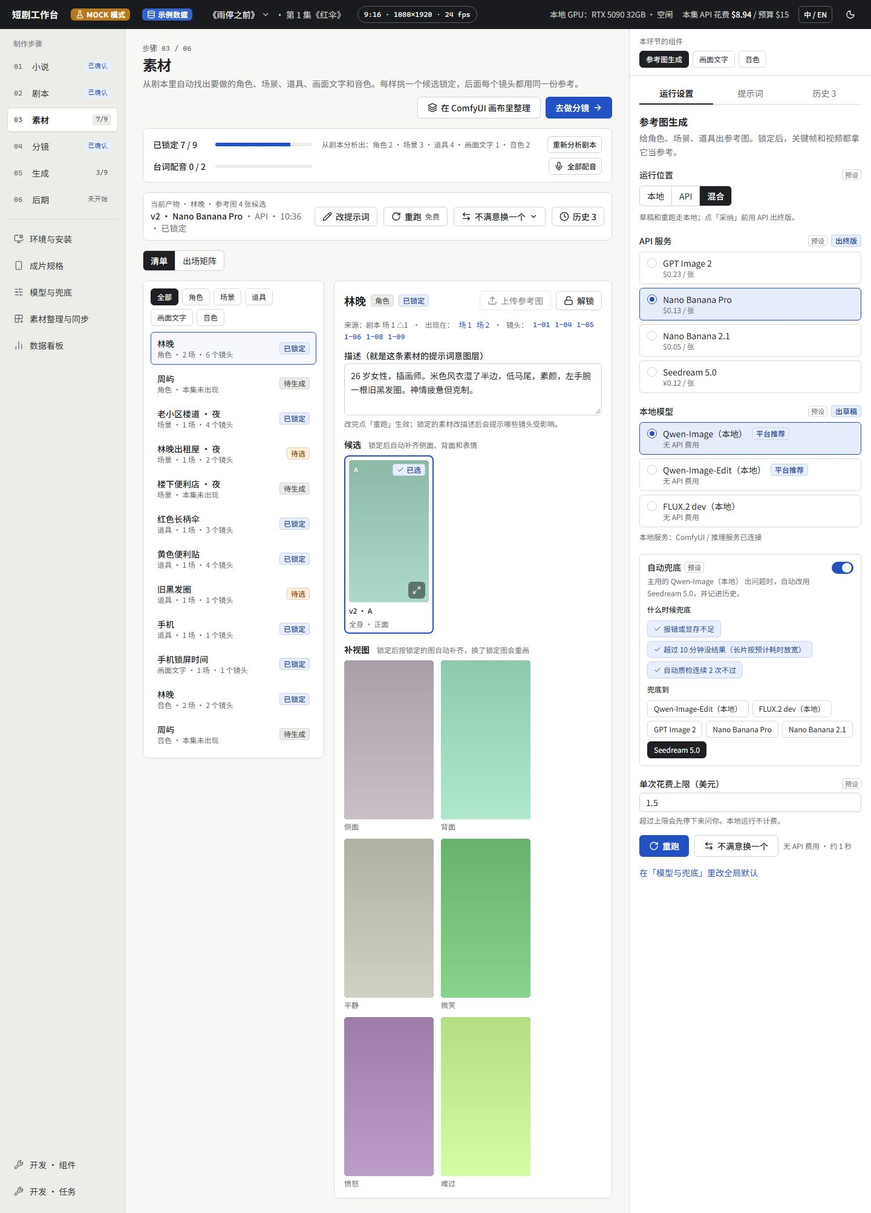
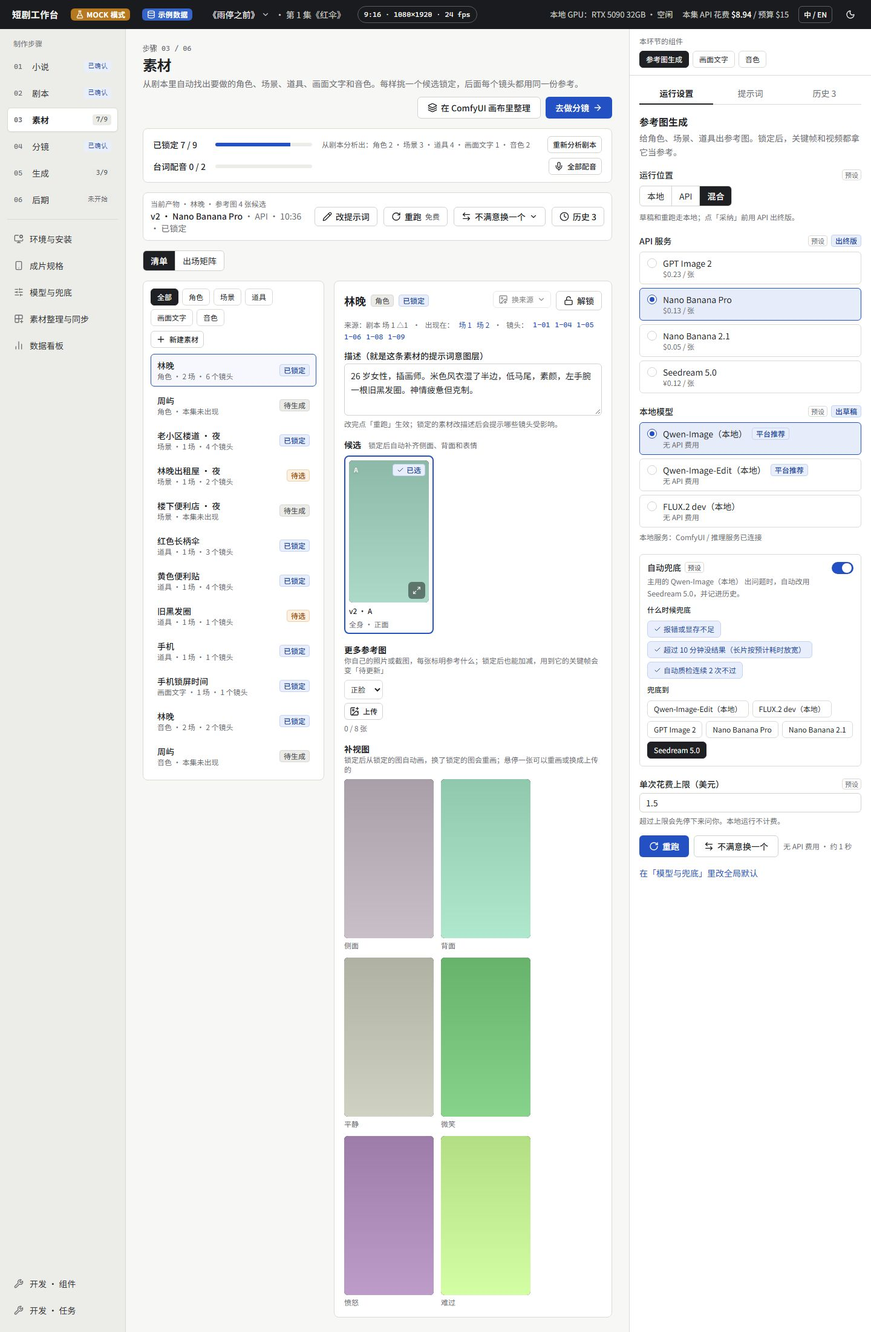
Screenshots of the picture sources and edits, light, dark and 2000 px wide (M5.5 step 16d)
- storyboard, spec and assets taken again; the first frame's menu and redraw dialog, the
  assets page's more pictures with a view hovered, the new asset dialog; 2000 px wide pages.
- Fix: the views' thumbnail button inside the hover layer was inline and collapsed to no
  width (block, full width).

diff --git a/web/src/pages/assets/AssetViews.tsx b/web/src/pages/assets/AssetViews.tsx
@@ -90,7 +90,7 @@ export function AssetViews({ asset, aspect }: { asset: Asset; aspect: Aspect }) 
                       aria-label={tc("lightbox.zoom", { label: name })}
                       title={tc("lightbox.zoom", { label: name })}
                       onClick={() => setZoomed(at)}
-                      className="rounded-md outline-none focus-visible:ring-2 focus-visible:ring-ring"
+                      className="block w-full rounded-md outline-none focus-visible:ring-2 focus-visible:ring-ring"
                     >
                       <MediaThumb
                         aspect={aspect}

diff --git a/docs/studio/reports/ui/README.md b/docs/studio/reports/ui/README.md
@@ -17,11 +17,11 @@ pnpm -C web shots:prototype --runtime <path/to/dc-runtime.js> [--only Main,Spec]
 | 页面 | 原型 | 实现 · 亮色 | 实现 · 暗色 | 有意的差异 |
 | --- | --- | --- | --- | --- |
 | 00 首次启动 `/setup` | [Setup](prototype/Setup.jpg) | [亮色](setup.light.jpg) | [暗色](setup.dark.jpg) | 顶栏用工作台自己的（原型这一页单独一条「首次启动」顶栏）；失败项行内有「重试 / 跳过」，不再自动跳过（日志文案相应改成「失败（可选项，不影响使用）」）；重新检测时已装好的项显示「通过 · 已安装」；「示例机器」切换只在 Mock 后端的示例机器上出现（`simulated`）；日志面板可滚动，保留全部行（原型只显示最后 9 行）；M1 起左侧导航有「环境与安装」（工具区第一个，徽标「缺 N 项」），`/` 在从没扫描过时跳到这一页；会改你的 ComfyUI 的项标出来、默认不勾，安装前弹改动清单确认（[截图](setup-confirm.light.jpg)），页面最下面多了「你的 ComfyUI」：识别结果、节点包和模型文件、快照和回滚（[装完后的整页](setup-done.light.jpg)）；M1 第 8c 步起，安装按钮旁和确认弹窗里写「约 N GB，预计 M 分钟」，下载中的项显示已下 / 总大小、速度、剩余时间（算 sha256 时显示「校验中…」），汇总条写整体剩余时间、进度按用时加权（[下载中](setup-installing.light.jpg)）；原型里都没有这些 |
-| 00b 成片规格 `/s/demo/spec` | [Spec](prototype/Spec.jpg) | [亮色](spec.light.jpg) | [暗色](spec.dark.jpg) | 锁定标记写「第 1 集已有 9 个镜头」（原型「9 张关键帧」，示例库里只有 7 个镜头有自己的关键帧，另外 2 个接尾帧）；改画幅后的三个选项走共用的 ImpactDialog（提示由组件统一给，不是原型那两句）；规格改动先放草稿，「保存规格」才写入，规格没改时提示「没有改动」；交付分辨率用单选卡片（带圆点）；遮挡区和字幕位置的开关不保存（只影响这一页的预览）；M3 第 10 步起兼容表按官方文档：「带字关键帧 · GPT Image 2」是原生支持（原型「需要转换：部分接入渠道只到 1K」），21:9 下「关键帧 · Nano Banana Pro」也是原生支持（原型「不支持，先出 16:9 再外扩」），见 DECISIONS 2026-10-21「第 10 步」；M4 第 5 步起改画幅的影响范围由后端给：关键帧 7 张（9 个镜头）约 $0.94（7 × Nano Banana Pro 终版价）、场景参考图建议重出（可选），视频到 M5 才有、不列（原型「关键帧 9 张 $1.26 + 视频 $2.76」）（[亮色](spec-aspect-impact.light.jpg) / [暗色](spec-aspect-impact.dark.jpg)） |
+| 00b 成片规格 `/s/demo/spec` | [Spec](prototype/Spec.jpg) | [亮色](spec.light.jpg) | [暗色](spec.dark.jpg) | 锁定标记写「第 1 集已有 9 个镜头」（原型「9 张关键帧」，示例库里只有 7 个镜头有自己的关键帧，另外 2 个接尾帧）；改画幅后的三个选项走共用的 ImpactDialog（提示由组件统一给，不是原型那两句）；规格改动先放草稿，「保存规格」才写入，规格没改时提示「没有改动」；交付分辨率用单选卡片（带圆点）；遮挡区和字幕位置的开关不保存（只影响这一页的预览）；M3 第 10 步起兼容表按官方文档：「带字关键帧 · GPT Image 2」是原生支持（原型「需要转换：部分接入渠道只到 1K」），21:9 下「关键帧 · Nano Banana Pro」也是原生支持（原型「不支持，先出 16:9 再外扩」），见 DECISIONS 2026-10-21「第 10 步」；M4 第 5 步起改画幅的影响范围由后端给：关键帧 7 张（9 个镜头）约 $0.94（7 × Nano Banana Pro 终版价）、场景参考图建议重出（可选），视频到 M5 才有、不列（原型「关键帧 9 张 $1.26 + 视频 $2.76」）（[亮色](spec-aspect-impact.light.jpg) / [暗色](spec-aspect-impact.dark.jpg)）；M5.5 第 16b 步起「声音、字幕和导出」后面多一节「风格板」（最多 4 张，加删一张马上生效，不随「保存规格」走；放在这一页是 Kelvin 2026-11-10 定的），宽屏 2000 px [截图](spec-wide.light.jpg) |
 | 01 小说 `/s/demo/e/1/novel` | [Main](prototype/Main.jpg) | [亮色](novel.light.jpg) | [暗色](novel.dark.jpg) | M2 第 5 步起原文来自后端：「导入 .txt / .docx」打开导入弹窗（选文件 → 识别出的编码和章节 → 勾改编权 → 导入；已有原文时提示会替换，[截图](novel-import.light.jpg)），没有小说时是空状态（[截图](novel-empty.light.jpg)）；第 6 步起设定也来自后端：点设定卡在原文里标出它出现的段落（在别的章先切章，[截图](novel-bible-marked.light.jpg)），每条可以编辑、冻结（[截图](novel-bible-edit.light.jpg)），「可能是同一个」可以合并或标为不是同一个（[截图](novel-bible.light.jpg)），没采纳的版本标「未采纳」；第 7 步起补全建议也来自后端（按要求重写超过单次上限时先在卡片里确认花费），第 7b 步起「原文」视图里每段可以改字、在后面插入一段、删除，章节可以改标题，保存出新的小说版本（[截图](novel-edit.light.jpg)，其他两个视图里不能改）；示例设定按三章小说补了几条（店员、公交站台、旧小票、黑色发圈……）；原文上方多了章节选择和「全书 N 章 · N 字」，段号全书连续；原型里都没有这些；闸门按钮放在页头右侧，确认后旁边显示「已确认 · 重新打开」；模型名不带「（本地）」后缀（运行位置有单独的标记）；API 单价统一写「每百万 token」，原型里的「闲时半价」等备注没放（要等 providers.yaml 的 note 进接口）；M2 第 9 步起点段号打开「在剧本里」：这一段写进了第几集哪一场的哪几行，点一行跳到剧本页并选中它（[截图](novel-trace.light.jpg)），剧本页和镜头链过来时带 `?para=` 直接定位到那一段；原型里没有；M2 第 10 步起示例里小说和第 1 集剧本是「已确认」：改原文、改设定、合并设定、采纳 / 忽略补全、重新导入都先弹影响范围（[截图](novel-impact.light.jpg)），主按钮「确认并同步」：受影响的产物依次重跑、新版本自动采纳，左侧步骤和运行条显示「同步中」（[截图](novel-syncing.light.jpg)），完了提示「已同步：N 个产物更新」，闸门重新打开（[截图](novel-synced.light.jpg)）；已确认时「全部采纳」和按要求重写要先「重新打开」；原型里没有 |
 | 02 剧本 `/s/demo/e/1/script` | [Script](prototype/Script.jpg) | [亮色](script.light.jpg) | [暗色](script.dark.jpg) | 分集卡是链接，点了切到那一集的路由（顶栏集名跟着变），不是页内切换；影响范围在保存前预览，弹窗打开时还没写进剧本，选「撤销」什么都不改；左侧原文按当前已采纳的补写拼出（示例里只采纳了 1 条，原型里是 4 条全采纳后的文字）；默认选中第一段动作而不是第 3 段；M2 第 8 步起分集来自后端的分集规划（第 3 集也有了钩子和卡点，原型是「卡点：待定」），「分集」区多了「卡片 / 节拍看板」切换：看板一列一集、节拍卡能拖到别的集或换位置（拖动时一条蓝线标出落点，[截图](script-board-drag.light.jpg)），点节拍改文字、情绪和所在的集（[截图](script-board-edit.light.jpg)），铅笔改集名、钩子、卡点和预计时长，上面一条全剧情绪曲线（图 / 表切换，悬停读出节拍，[亮色](script-board.light.jpg) / [暗色](script-board.dark.jpg)）；切到看板时右侧 Inspector 和运行条换成分集规划；原型里都没有这些；M2 第 9 步起剧本来自后端的剧本化：场号由后端全剧累加、显示在场标题前，用到已采纳补写的行标「原文第 N 段 · 补写」；选中一行后多一行「对应镜头 1-06」（点了到分镜页选中那个镜头），「来自原文第 N 段」点了到小说页定位那一段（[截图](script-trace.light.jpg)）；剧本没确认时改一段直接保存（不弹影响范围）；重写超单次上限或本集预算时先在那一段下面问「仍然重写」；当前版本没采纳时提示「在历史里采纳后下游才会用」；原型里都没有；M2 第 10 步起影响范围的按钮是「确认并同步 · 预计 $x」（主按钮）/「只改这里，下游标待更新」/「撤销」（原型是「只标记待更新 / 自动重跑受影响的部分 / 撤销修改」，按 Kelvin 2026-10-19 的决定改），第一行由后端给（「已确认的第 1 集剧本会改成新内容」），镜头、关键帧这些下游行仍是示例数据（[截图](script-impact.light.jpg)）；拖节拍、改节拍碰到已确认的剧本时先弹影响范围；M3 第 7 步起场标题下面写「台词 x 秒 · 已配音 n / m」（只算台词，动作行的时长 M4 由镜头定），配过音的台词行右边有播放按钮和真实时长，表格的「时长」列也是（[剧本格式](script-dub.light.jpg) / [暗色](script-dub.dark.jpg)，[表格](script-dub-table.light.jpg) / [暗色](script-dub-table.dark.jpg)）；原型里没有；M3 第 8 步起改配过音的台词，影响范围多一行「台词配音 · 1 句按新台词重配 · 约 $0.0005」（[截图](script-dub-impact.light.jpg) / [暗色](script-dub-impact.dark.jpg)） |
-| 03 素材 `/s/demo/e/1/assets` | [Assets](prototype/Assets.jpg) | [亮色](assets.light.jpg) | [暗色](assets.dark.jpg) | 解锁先弹出影响范围（原型只有提示条）；画面文字的候选也是真图（原型是按字体风格画的色块），OCR 结果由后端给：改了字或做法，屏幕上这一版仍按出图时的设置标注，并提示重跑；后期贴字的候选是空白底图，上面按字体风格叠字预览，标「OCR 确认底图没有字」（[截图](assets-text-composite.light.jpg) / [暗色](assets-text-composite.dark.jpg)；模型出字：[截图](assets-text.light.jpg) / [暗色](assets-text.dark.jpg)）；OCR 不一致只在候选上标出来，锁定不再弹确认框（M5.5，Kelvin 2026-11-10；旧截图 `assets-ocr-confirm` 作废）；M5.5 第 8b 步起道具详情多「真实尺寸 / 材质 / 新旧」三栏、有字的道具多「道具上的字」和「用什么写」（不显示做法），最下面「比例参考」（和一个锁定角色同框，示例数据里还没有这张图，只显示说明）；音色是真音频：三个试听可播放、选中，选一个「用 MiniMax 出终版」（本地来源是「用本地出终版（免费）」），试听不能直接锁定；终版显示样音和五个情绪变体，「用剧本里的台词试读」播放选中的那段（原型只有试听，[终版截图](assets-voice-final.light.jpg) / [暗色](assets-voice-final.dark.jpg)，[试听截图](assets-voice-drafts.light.jpg) / [暗色](assets-voice-drafts.dark.jpg)）；「声音克隆」灰掉，写「之后支持」；「已锁定 7 / 13」和导航的 7/13 都按实际锁定数算；M3 第 3、4 步起素材来自后端：候选是真图（Mock 下是柔和的渐变图），林晚的终版只有 1 张（原型 4 张 $0.56，按 Kelvin 2026-10-20 定的第 5 项改成 1 张 $0.14），锁定后历史里多一版「锁定的候选」；「出现在」改成场（链到剧本那一行），示例剧集后面再跟镜头；原型里没有、照现有样式加的：本地草稿的候选标题右边「用 API 出终版 · 约 $0.14」、详情标题行的「上传参考图」（[截图](assets-draft.light.jpg) / [暗色](assets-draft.dark.jpg)），角色锁定后最下面的「补视图」（侧面、背面，M3 第 13 步起表情一张一种：平静、微笑、愤怒、难过，共 6 张，[截图](assets-views.light.jpg) / [暗色](assets-views.dark.jpg)），「清单 / 出场矩阵」切换：一行一场、一列一样素材，数字是行数，点了跳剧本（[截图](assets-matrix.light.jpg) / [暗色](assets-matrix.dark.jpg)）；M3 第 7 步起进度卡多一行「台词配音 n / m · 全部配音」：先弹估价确认（句数、约多少钱、哪些音色没锁定先跳过，[截图](assets-dub-confirm.light.jpg) / [暗色](assets-dub-confirm.dark.jpg)），音色详情最下面「第 1 集的台词配音」：每句的播放、时长、情绪（按语气或手动）和「配音 / 重配」（[截图](assets-dub-voice.light.jpg) / [暗色](assets-dub-voice.dark.jpg)）；原型里没有配音；M3 第 8 步起「已锁定 n / m」和导航的「素材」按本集用到的素材算（示例 7 / 10，原型 7 / 13 算的是整张清单，Kelvin 定按本集），没锁完时点「去做分镜」提示还差哪几条（[截图](assets-gate-refused.light.jpg) / [暗色](assets-gate-refused.dark.jpg)），改已锁定素材的描述、画面文字设置或音色来源先弹影响范围：按新设置重新出候选、锁定新的之后补视图 / 配音跟着变、出现在哪几场（[截图](assets-edit-locked.light.jpg) / [暗色](assets-edit-locked.dark.jpg)）；Kelvin 2026-10-21 看过后：计数定为本集用到的（7 / 10）；候选卡和补视图卡改成定宽小卡（9:16 宽 148 px，放不下换行），图上「放大」打开大图（按屏幕自适应，← → 切换），出终版、补视图、画面文字两张截图跟着重截 |
-| 04 分镜 `/s/demo/e/1/storyboard` | [Storyboard](prototype/Storyboard.jpg) | [亮色](storyboard.light.jpg) | [暗色](storyboard.dark.jpg) | 站位图真的能拖（也能用方向键），位置存进镜头的 `blocking`；机位也是可拖的一项，不再按景别自动摆；参考素材的「未锁定」按素材页的实际锁定状态显示；「添加参考」从已锁定素材里选；确认镜头时顺带采纳当前关键帧；1-09 的尾帧接 1-08（原型如此，ROADMAP 里只举了 1-08 接 1-06）；M2 第 9 步起镜头设定最上面多一栏「剧本」：这个镜头拍的剧本行（点了到剧本页选中那一行）和它们来自原文第几段（点了到小说页），剧本页链过来时带 `?shot=` 直接选中那个镜头（[截图](storyboard-lines.light.jpg)）；原型里没有；M4 第 5 步起镜头和关键帧来自后端：整集 34.5 秒（1-04 没配音，按剧本估计 4 秒加前后留白，原型 34 秒）；首帧候选是真图（Mock 出的是纯色图），固定尺寸的小卡片、能放大看，卡片下面写「本地草稿」/「API 终版」（原型是构图说明），本地草稿下面有「用 API 出终版 · 约 $0.13」；确认镜头锁定选中的那张（不再是「顺带采纳」）；状态多了「待更新」；改已确认的镜头先弹影响范围，确认前不写入（[亮色](storyboard-shot-edit.light.jpg) / [暗色](storyboard-shot-edit.dark.jpg)）；原型里没有；M4 第 6 步起镜头列表上面多一行「镜头 · 9 个 · 34.5 秒」和「分镜板 / 表格」切换，表格视图每行能直接改类型、景别、运动、时长，带拆分 / 合并按钮，下面仍是选中镜头的设定（[亮色](storyboard-table.light.jpg) / [暗色](storyboard-table.dark.jpg)）；镜头设定里多了「拆分」（拍多行时选从哪行之后切）、「和下一个合并」，时长下面写来源（按台词音频 / 手动 / 按分镜规划）、「恢复按音频」和超过 15 秒的拆镜提示；原型里没有；M4 第 7 步起预演按真实时长放（[亮色](storyboard-animatic.light.jpg) / [暗色](storyboard-animatic.dark.jpg)：1-04 播放中、开着安全区）：画面是选中的关键帧（接尾帧的镜头用接的那个镜头的，标「接 1-06 尾帧」），配过音的句子按偏移出声，字幕按成片规格的位置，没配音的写「n 句还没配音 · 去配音」；时间显示、点时间条跳转、空格键、「安全区」开关（也叠在关键帧候选上）原型里没有；那句说明从「本地临时配音」改成「台词配音」（不做预演配音）；镜头卡片显示选中的关键帧 |
+| 03 素材 `/s/demo/e/1/assets` | [Assets](prototype/Assets.jpg) | [亮色](assets.light.jpg) | [暗色](assets.dark.jpg) | 解锁先弹出影响范围（原型只有提示条）；画面文字的候选也是真图（原型是按字体风格画的色块），OCR 结果由后端给：改了字或做法，屏幕上这一版仍按出图时的设置标注，并提示重跑；后期贴字的候选是空白底图，上面按字体风格叠字预览，标「OCR 确认底图没有字」（[截图](assets-text-composite.light.jpg) / [暗色](assets-text-composite.dark.jpg)；模型出字：[截图](assets-text.light.jpg) / [暗色](assets-text.dark.jpg)）；OCR 不一致只在候选上标出来，锁定不再弹确认框（M5.5，Kelvin 2026-11-10；旧截图 `assets-ocr-confirm` 作废）；M5.5 第 8b 步起道具详情多「真实尺寸 / 材质 / 新旧」三栏、有字的道具多「道具上的字」和「用什么写」（不显示做法），最下面「比例参考」（和一个锁定角色同框，示例数据里还没有这张图，只显示说明）；音色是真音频：三个试听可播放、选中，选一个「用 MiniMax 出终版」（本地来源是「用本地出终版（免费）」），试听不能直接锁定；终版显示样音和五个情绪变体，「用剧本里的台词试读」播放选中的那段（原型只有试听，[终版截图](assets-voice-final.light.jpg) / [暗色](assets-voice-final.dark.jpg)，[试听截图](assets-voice-drafts.light.jpg) / [暗色](assets-voice-drafts.dark.jpg)）；「声音克隆」灰掉，写「之后支持」；「已锁定 7 / 13」和导航的 7/13 都按实际锁定数算；M3 第 3、4 步起素材来自后端：候选是真图（Mock 下是柔和的渐变图），林晚的终版只有 1 张（原型 4 张 $0.56，按 Kelvin 2026-10-20 定的第 5 项改成 1 张 $0.14），锁定后历史里多一版「锁定的候选」；「出现在」改成场（链到剧本那一行），示例剧集后面再跟镜头；原型里没有、照现有样式加的：本地草稿的候选标题右边「用 API 出终版 · 约 $0.14」、详情标题行的「上传参考图」（[截图](assets-draft.light.jpg) / [暗色](assets-draft.dark.jpg)），角色锁定后最下面的「补视图」（侧面、背面，M3 第 13 步起表情一张一种：平静、微笑、愤怒、难过，共 6 张，[截图](assets-views.light.jpg) / [暗色](assets-views.dark.jpg)），「清单 / 出场矩阵」切换：一行一场、一列一样素材，数字是行数，点了跳剧本（[截图](assets-matrix.light.jpg) / [暗色](assets-matrix.dark.jpg)）；M3 第 7 步起进度卡多一行「台词配音 n / m · 全部配音」：先弹估价确认（句数、约多少钱、哪些音色没锁定先跳过，[截图](assets-dub-confirm.light.jpg) / [暗色](assets-dub-confirm.dark.jpg)），音色详情最下面「第 1 集的台词配音」：每句的播放、时长、情绪（按语气或手动）和「配音 / 重配」（[截图](assets-dub-voice.light.jpg) / [暗色](assets-dub-voice.dark.jpg)）；原型里没有配音；M3 第 8 步起「已锁定 n / m」和导航的「素材」按本集用到的素材算（示例 7 / 10，原型 7 / 13 算的是整张清单，Kelvin 定按本集），没锁完时点「去做分镜」提示还差哪几条（[截图](assets-gate-refused.light.jpg) / [暗色](assets-gate-refused.dark.jpg)），改已锁定素材的描述、画面文字设置或音色来源先弹影响范围：按新设置重新出候选、锁定新的之后补视图 / 配音跟着变、出现在哪几场（[截图](assets-edit-locked.light.jpg) / [暗色](assets-edit-locked.dark.jpg)）；Kelvin 2026-10-21 看过后：计数定为本集用到的（7 / 10）；候选卡和补视图卡改成定宽小卡（9:16 宽 148 px，放不下换行），图上「放大」打开大图（按屏幕自适应，← → 切换），出终版、补视图、画面文字两张截图跟着重截；M5.5 第 16c 步起（草图 A3、A4）：详情顶上的「上传参考图」换成「换来源 ▾」（上传 / 以这张为底重画 / 局部修复 / 放大到长边 2048，对选中的候选；锁定时灰掉），角色、场景、道具多一节「更多参考图」（先选用途再上传，最多 8 张，锁定后也能加删；草图里图下的用途下拉没做：后端不能改用途），补视图每张悬停浮出「重画这张 / 上传」（[截图](assets-more.light.jpg) / [暗色](assets-more.dark.jpg)，悬停在背面）；列表筛选旁「新建素材」→ 对话框（类别没有音色、道具多尺寸三栏、图从哪来；[截图](assets-new.light.jpg) / [暗色](assets-new.dark.jpg)），手动建的标「手动」；宽屏 2000 px [截图](assets-wide.light.jpg) |
+| 04 分镜 `/s/demo/e/1/storyboard` | [Storyboard](prototype/Storyboard.jpg) | [亮色](storyboard.light.jpg) | [暗色](storyboard.dark.jpg) | 站位图真的能拖（也能用方向键），位置存进镜头的 `blocking`；机位也是可拖的一项，不再按景别自动摆；参考素材的「未锁定」按素材页的实际锁定状态显示；「添加参考」从已锁定素材里选；确认镜头时顺带采纳当前关键帧；1-09 的尾帧接 1-08（原型如此，ROADMAP 里只举了 1-08 接 1-06）；M2 第 9 步起镜头设定最上面多一栏「剧本」：这个镜头拍的剧本行（点了到剧本页选中那一行）和它们来自原文第几段（点了到小说页），剧本页链过来时带 `?shot=` 直接选中那个镜头（[截图](storyboard-lines.light.jpg)）；原型里没有；M4 第 5 步起镜头和关键帧来自后端：整集 34.5 秒（1-04 没配音，按剧本估计 4 秒加前后留白，原型 34 秒）；首帧候选是真图（Mock 出的是纯色图），固定尺寸的小卡片、能放大看，卡片下面写「本地草稿」/「API 终版」（原型是构图说明），本地草稿下面有「用 API 出终版 · 约 $0.13」；确认镜头锁定选中的那张（不再是「顺带采纳」）；状态多了「待更新」；改已确认的镜头先弹影响范围，确认前不写入（[亮色](storyboard-shot-edit.light.jpg) / [暗色](storyboard-shot-edit.dark.jpg)）；原型里没有；M4 第 6 步起镜头列表上面多一行「镜头 · 9 个 · 34.5 秒」和「分镜板 / 表格」切换，表格视图每行能直接改类型、景别、运动、时长，带拆分 / 合并按钮，下面仍是选中镜头的设定（[亮色](storyboard-table.light.jpg) / [暗色](storyboard-table.dark.jpg)）；镜头设定里多了「拆分」（拍多行时选从哪行之后切）、「和下一个合并」，时长下面写来源（按台词音频 / 手动 / 按分镜规划）、「恢复按音频」和超过 15 秒的拆镜提示；原型里没有；M4 第 7 步起预演按真实时长放（[亮色](storyboard-animatic.light.jpg) / [暗色](storyboard-animatic.dark.jpg)：1-04 播放中、开着安全区）：画面是选中的关键帧（接尾帧的镜头用接的那个镜头的，标「接 1-06 尾帧」），配过音的句子按偏移出声，字幕按成片规格的位置，没配音的写「n 句还没配音 · 去配音」；时间显示、点时间条跳转、空格键、「安全区」开关（也叠在关键帧候选上）原型里没有；那句说明从「本地临时配音」改成「台词配音」（不做预演配音）；镜头卡片显示选中的关键帧；M5.5 第 16a 步起首帧下面「换来源 ▾」（重新生成一组 / 上传图片…按画幅裁 / 以这张为底重画… / 局部修复… / 放大到交付尺寸，[截图](storyboard-source.light.jpg) / [暗色](storyboard-source.dark.jpg)；重画弹窗 [截图](storyboard-redraw.light.jpg) / [暗色](storyboard-redraw.dark.jpg)，重画、修复一次出一张，草图写两张），已确认的镜头没有这个菜单（截图先取消确认了 1-04）；第 16b 步起「参考素材」下面「这个镜头的参考图」和「剧的风格板」缩略图；宽屏 2000 px [截图](storyboard-wide.light.jpg) |
 | 05 生成 `/s/demo/e/1/generate` | [Generate](prototype/Generate.jpg) | [亮色](generate.light.jpg) | [暗色](generate.dark.jpg) | M5 起数据是后端的（示例种子：分镜已确认，1-01–1-03 本地草稿 + API 终版已采纳，1-04 四条待挑，1-05–1-07 没跑，1-08 / 1-09 等上一镜）；队列卡按模型分组、显示兜底到 API 和等确认的任务，「正在跑」取运行中的视频产物；默认打开第一个「待挑选」的镜头（1-04）；质检是 M6：候选卡写「未检查」、质检卡写「10 条候选还没质检」，没有「推荐」；候选卡固定宽度（宽屏不放大），封面帧是后端的第一帧，点播放 / 空格在大图里放真视频；本地 H3 草稿多一个「用 API 出终版 · 约 $x」（后端估价）；多了键盘选中框和打分（← → / 1–5 / A / 空格）；「取消采纳」走单独接口；等尾帧的镜头点「再出一条」会提示先采纳上游镜头；局部修复只弹提示，2K 精修调接口返回任务（M6）；Inspector 的视频生成下多「这个镜头的工作流」（M5 第 12c 步，原型没有）：最近一条本地候选用了哪个工作流、为什么（规则 / 手动 / LLM 建议 / 默认），下一条用哪个，那个工作流的分支开关 |
 | 06 后期 `/s/demo/e/1/post` | [Post](prototype/Post.jpg) | [亮色](post.light.jpg) | [暗色](post.dark.jpg) | 音量按片段存（原型是整页一个值）；播放按真实时间走（原型是 2 倍速）；默认选中第一个没采纳的片段，播放头放在它中间（00:12，原型是 00:11）；「换一条候选」跳到生成页并打开那个镜头；雨声标「视频原生音频」（原型写「H3 原生音频」）；字幕改了会标「已改，和剧本不同」；导出按钮调接口后弹提示（示例里不真的导出）；导航「后期」按进度显示「未开始」（原型在本页写「进行中」）；配乐 RunBar 的预计花费是 Mock 的按次估价（原型写「订阅内」） |
 | 模型与兜底 `/models` | [Models](prototype/Models.jpg) | [亮色](models.light.jpg) | [暗色](models.dark.jpg) | 22 个组件（比原型多了素材分析、补视图、文字核对（OCR）、台词配音、音效，照 components.yaml 的顺序）；3D 场景在「均衡」下是「这一步不跑」（components.yaml `mode: off`，原型算成 API）；密钥 chips 来自真实 `/providers`，只有写作类服务，而且都显示「未配置」（原型列了 13 家、一半已配置）；点 chip 弹出密钥窗口（原型只有提示条）；M2 第 2 步起运行设置来自后端（`config/components.yaml` + 预设）：兜底目标和备选顺序按 components.yaml（和各页 Inspector 一致），和原型的个别默认值不同；提示用 toast；页面最下面多了「工作流库」（SPEC 6.4.6，原型里没有；Kelvin 2026-10-18 审过设计稿，审阅图在 [workflows/](workflows/)），M5 之前是示例数据；组件表和工作流库之间多了「按镜头选工作流」规则表（M5 第 12c 步，原型没有）：本剧的规则从上往下第一条命中、LLM 建议开关（默认关）、恢复默认；M5 第 10b 步起工作流库是后端的（示例 ComfyUI），第 13c 步起展开后的「体检」页签列出问题，装节点包弄坏的工作流有「回滚到这次安装前的快照」（截图是收起的，看不到）；Playwright `m5` 走一遍导入社区工作流 → 装节点包 → 试跑 → 我的工作流，装坏 → 回滚 |

diff --git a/docs/studio/PROGRESS.md b/docs/studio/PROGRESS.md
@@ -23,10 +23,10 @@
 - **9 中 / 9 中 B / 9 后 / 9d / 9e**（223d1b9 … f236bb5）先按检查改分镜再出 take、用户画面描述取代剧本动作行；第十九轮整集、流程约束、再追六条、第二十轮整集重出；详见 [`reports/M5.5.md`](reports/M5.5.md)「各小步」和 `reports/m5-local-smoke/run20-fresh/README.md`。**Kelvin 2026-11-12：第二十轮和第十七轮差不多，保留，不回退**；剩下的小问题记在 `reports/M5.5.md`「遗留问题」。第 9 步勾掉。
 - **10**（ec5a9a9）上传关键帧 `POST /shots/{id}/keyframe/upload`（`shots/upload.py`，DECISIONS「第 10 步」）。**11**（225d1f9）素材：多参考图 `ref_more`（`POST/DELETE /assets/{id}/refs`）、关键帧在主图后按用途接上（只接主图已锁定的）；六视图单张替换 `POST /products/{id}/views/{view}`（上传 / 重画这一张，过时 409 `views_outdated`）；新建素材 `POST /series/{id}/assets`（`manual`）。DECISIONS「第 11 步」。 **12**（f8a99ab）镜头参考图 `shot_refs`、风格板 `style_board`；三种图组 `pipeline/pictures.py`；关键帧顺序 主图 → 多参考图 → 镜头参考 → 风格板。DECISIONS「第 12 步」。
 - **13–15**（6e09f83 + CI 修复 994fe4e、1595f82、3d69955）以这张为底重画 `redraw`、局部修复 `inpaint`、图片超分 `iup`：三个组件都跑在原产物上出新版本（`origin=redraw|inpaint|upscale`），接口 `POST /versions/{id}/redraw {idx, prompt, strength, where?}`、`/inpaint`（multipart `mask` 亮 = 改）、`/upscale {idx}`（只有本地，跑不了 409 `upscale_unavailable`）；本地新工作流 `flux3-klein-redraw`、`klein-inpaint`、`seedvr2-img` 都没真跑过（第 18 步）；Models 页 32 行。DECISIONS「第 13 / 14 / 15 步」。
-- **16a**（49a5faf）首帧「换来源 ▾」：共用组件 `components/pictures/`（`PictureMenu`、`CropDialog`、`RedrawDialog`、`InpaintDialog`、`WherePicker`）+ `api/hooks/pictures.ts`、`lib/crop.ts`、`lib/mask.ts`；接到分镜页首帧（草图 S3、S5–S7）；重画 / 修复一次一张（和草图不同）；测试假后端 `test/fakes/shots.ts` 加四个接口（`fakeShots.edits`）；MSW 的 `/versions/{id}/upscale` 只接 take、其余放行。DECISIONS「第 16a 步」。测试：新 `pages/storyboard/pictures.test.tsx`（7）、`lib/crop.test.ts`（4）、Storyboard / Generate vitest、i18n、tsc、eslint、prettier；临时 Playwright 脚本在真浏览器里核对拖框、涂遮罩（后端存的遮罩和涂的一致），跑完删了。
-- **16b**（cdcf60c）分镜页「这个镜头的参考图」和「剧的风格板」缩略图 + 去管理；成片规格页「风格板」一节；共用图组 `components/pictures/PictureSet.tsx`、`usePictureSet` / `setPictures`、词表 `enums:refPurpose`；测试假后端 `test/fakes/pictures.ts`。DECISIONS「第 16b 步」。
-- **16c**（本提交）素材页：「换来源 ▾」（`PictureMenu`，选中的候选；锁定时灰掉；画面文字只有上传）、「更多参考图」（`pages/assets/MoreRefs.tsx`，`PictureSet`）、补视图每张悬停「重画这张 / 上传」（`useReplaceView`，过时时重画灰掉）、「新建素材」对话框（`pages/assets/NewAsset.tsx`，`useCreateAsset`；没有音色）；后端 `AssetOut.manual` + 来源 `manual`，web fixtures（assets）重导。DECISIONS「第 16c 步」。测试：新 `pages/assets/pictures.test.tsx`（8）、Assets / assets / storyboard pictures / spec / Storyboard / Script / components vitest（146）、i18n、tsc、eslint、prettier；`test_asset_more_api.py`、web fixtures（assets）；ruff、mypy 干净。没在真浏览器里看过（16d 截图时一起看）。**后端改了接口，Kelvin 要重启 `start.ps1` 的后端。**
-- **下一步：16d** 截图（亮 / 暗、宽屏 2000 px）：storyboard、spec、assets（选林晚看更多参考图和视图悬停；新建素材对话框）；填 `reports/ui/README.md`；顺便在真浏览器里核对 16c（视图悬停按钮的位置、对话框布局）。之后第 17 步（看计划）。
+- **16a**（49a5faf）首帧「换来源 ▾」：共用组件 `components/pictures/`（`PictureMenu`、`CropDialog`、`RedrawDialog`、`InpaintDialog`、`WherePicker`）+ `api/hooks/pictures.ts`；重画 / 修复一次一张。DECISIONS「第 16a 步」。 **16b**（cdcf60c）镜头参考图、风格板（分镜页缩略图 + 成片规格页一节），共用图组 `PictureSet`，测试假后端 `test/fakes/pictures.ts`。DECISIONS「第 16b 步」。
+- **16c**（9b64913）素材页：「换来源 ▾」（选中的候选；锁定时灰掉；画面文字只有上传）、「更多参考图」（`pages/assets/MoreRefs.tsx`）、补视图每张悬停「重画这张 / 上传」（`useReplaceView`）、「新建素材」对话框（`pages/assets/NewAsset.tsx`，没有音色）；后端 `AssetOut.manual` + 来源 `manual`。DECISIONS「第 16c 步」。**后端改了接口，Kelvin 要重启 `start.ps1` 的后端。**
+- **16d**（本提交）截图：storyboard / spec / assets 亮暗重截（`assets-views` 复制自 `assets`），新的 `storyboard-source`、`storyboard-redraw`、`assets-more`、`assets-new`（亮 / 暗）和 2000 px 宽屏 `storyboard-wide`、`assets-wide`、`spec-wide`；`reports/ui/README.md` 三行补了说明。真浏览器里发现并修了 16c 的一个问题：视图缩略图的按钮包进悬停层后成了行内元素、宽度塌成 0（加 `block w-full`）。测试：Assets / assets pictures vitest（34）。临时脚本 `e2e/tmp-m55-shots.spec.ts` 跑完删了（截图前先「取消确认」1-04，示例分镜已确认就没有换来源菜单）。**第 16 步勾掉。**
+- **下一步：17** 示例剧、快照、Playwright `m55`（计划第 17 步：两条验收流程——上传画幅不对的关键帧 → 裁切 → 锁定 → 视频首帧是它；一张关键帧局部修复、重画、超分各出一个候选，原图还在历史里）。先看 `web/e2e/m5.spec.ts` 和 `playwright.config.ts` 的项目依赖顺序，`m55` 接在 `m5` 后面。
 - **踩坑**：Claude Code 在会话空闲时会因内存不足回收后台任务（H3 + TTS 时内存只剩约 8 GB）：长任务一个镜头一个镜头在前台跑（`--from X --to X`，每条 ≤ 10 分钟）；超过 10 分钟的只能后台，被回收后 ComfyUI 里的任务还会跑完，可以从 `/history` 取回结果。被回收的任务下次启动应用会被「恢复」，脚本退出时会取消它。
 - **约定**：生成页测试先 `confirmFakeStoryboard()`（其余页面测试的分镜是进行中）；改已确认内容先 `useImpactPreview`、后 `useApplyImpact`；页面测试用 `test/backend.ts` 的 `backend()`（已含空的 `/jobs`、PC 示例机器扫描前；`resetFakeSetup("pc", { scanned: true })` 直接到扫描后），看 toast 就挂 `<Toaster />`；演示延迟放 `mocks/events.ts:demoTiming`，测试里改短；AppShell 测试标题要改成页面 h1；i18n key 不能含冒号。
 - **和 MSW 共存的规则**（M2 计划「和 MSW 共存」）：MSW 只处理它内存库里有的 id，其他放行到后端；做完一块就从 MSW 库里删掉那块数据；删掉的 handler 挪成 `web/src/test/fakes/` 的测试假后端。
